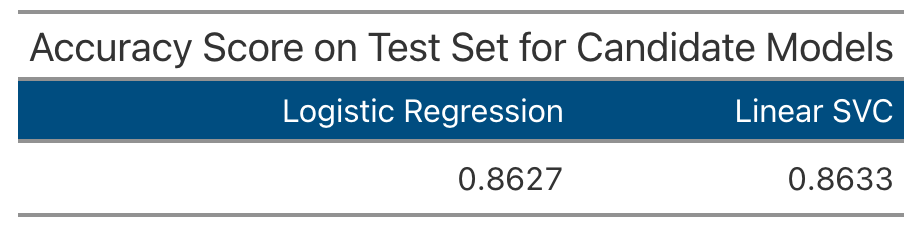
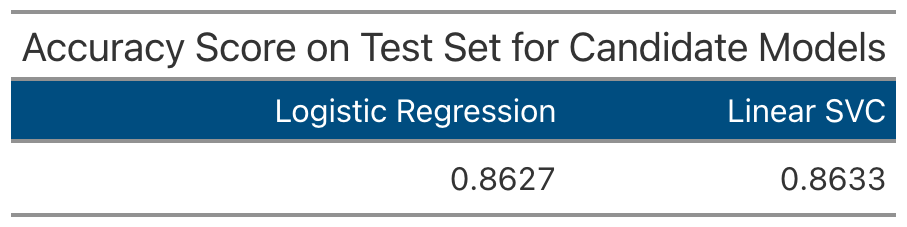
fixed script 17 to include index for table interpretation

diff --git a/src/17_model_validation_training.py b/src/17_model_validation_training.py
@@ -96,6 +96,7 @@ def model_training(x_train, y_train, out_dir="results/models"):
 
     # ============================ Summary table
     results = {
+        "Index": scores_dummy.index,
         "Dummy": scores_dummy,
         "Logistic Regression": scores_logistic,
         "Linear SVC": scores_svc
@@ -103,7 +104,7 @@ def model_training(x_train, y_train, out_dir="results/models"):
 
     results_table = pd.DataFrame(results)
     # Also output as csv for score readin from quarto 
-    results_table.to_csv(os.path.join(out_dir, "model_training.csv"), index=False)
+    results_table.to_csv(os.path.join(out_dir, "model_training.csv"))
 
     # ============================ Export Great Table
     # Ian Gault: used ChatGPT5 to help introduce me to great_table package
